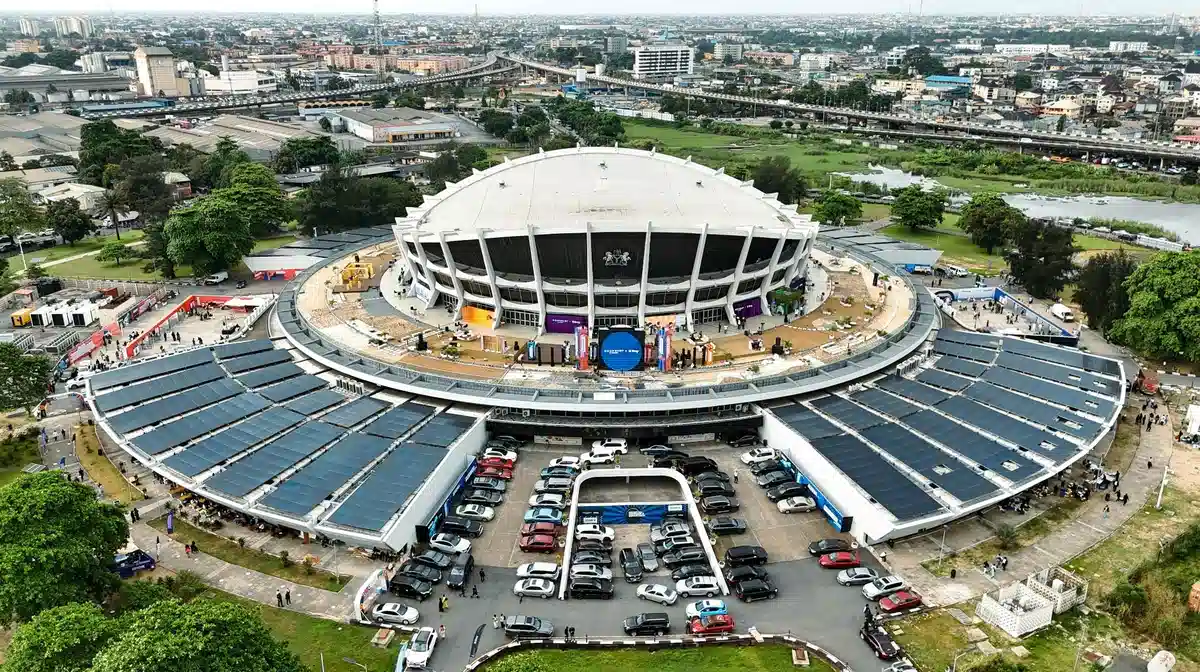
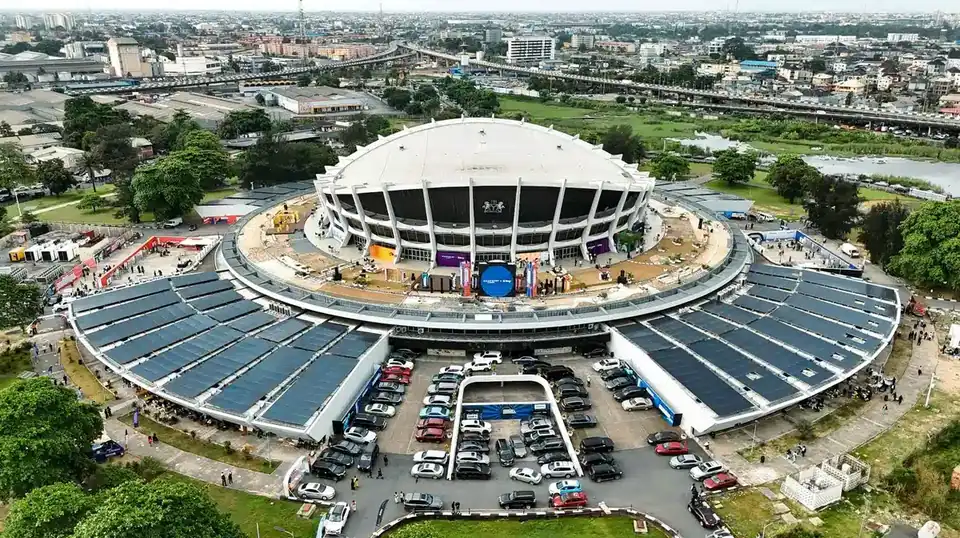
img resize

diff --git a/place.html b/place.html
@@ -26,6 +26,7 @@
 
     <main>
         <div class="hero">
+   <div class="hero">
     <picture>
         <source
             media="(max-width: 600px)"
@@ -40,6 +41,7 @@
             alt="Natural waterfall surrounded by lush vegetation in Nigeria"
             class="hero-image">
     </picture>
+    </div>
 
         <section class="country-data">
             <h2>Data</h2>
@@ -50,17 +52,11 @@
             <p><strong>Language:</strong> English</p>
         </section>
 
-       <section class="weather">
-    <h2>
-        Weather
-        <span class="weather-emoji" aria-hidden="true">⛅</span>
-    </h2>
+      <h2>Weather</h2>
 
-    <img
-        src="images/weather.svg"
-        alt="Partly cloudy weather"
-        class="weather-icon">
-
+        <img
+             src="images/weather.svg"alt="Partly cloudy weather"
+             class="weather-icon">
 
     <p><strong>Temperature:</strong>
         <span id="temperature">--</span>

diff --git a/styles/place.css b/styles/place.css
@@ -1,16 +1,9 @@
-
-/* Mobile weather icon */
 .weather-icon {
     display: block;
     width: 60px;
     height: 60px;
 }
 
-.weather-emoji {
-    display: none;
-}
-
-/* Wider screens */
 @media screen and (min-width: 601px) {
     .weather-icon {
         display: none;
